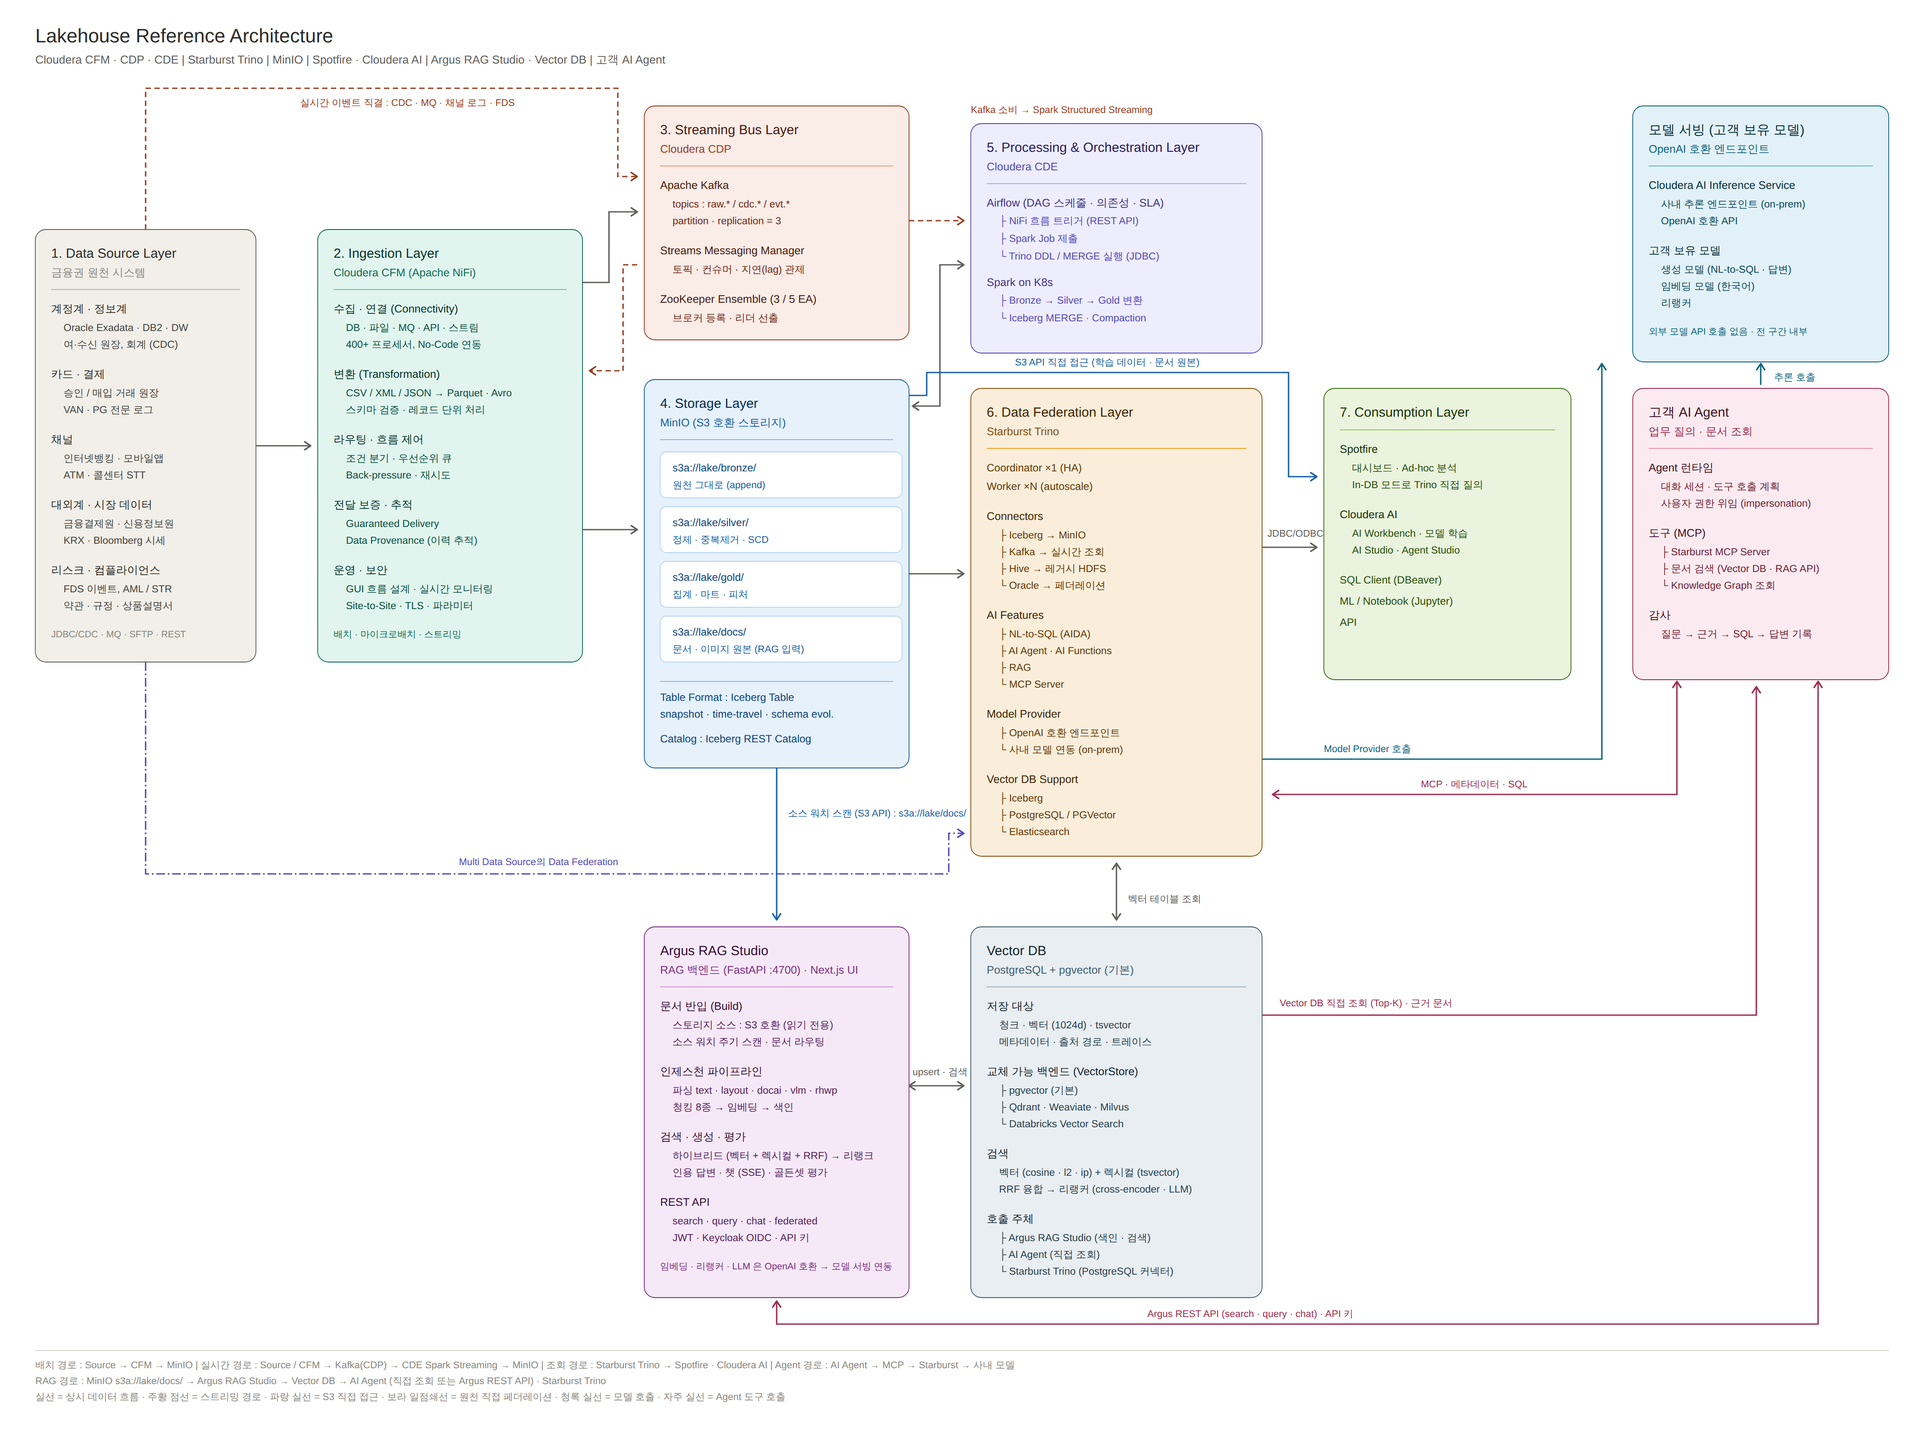
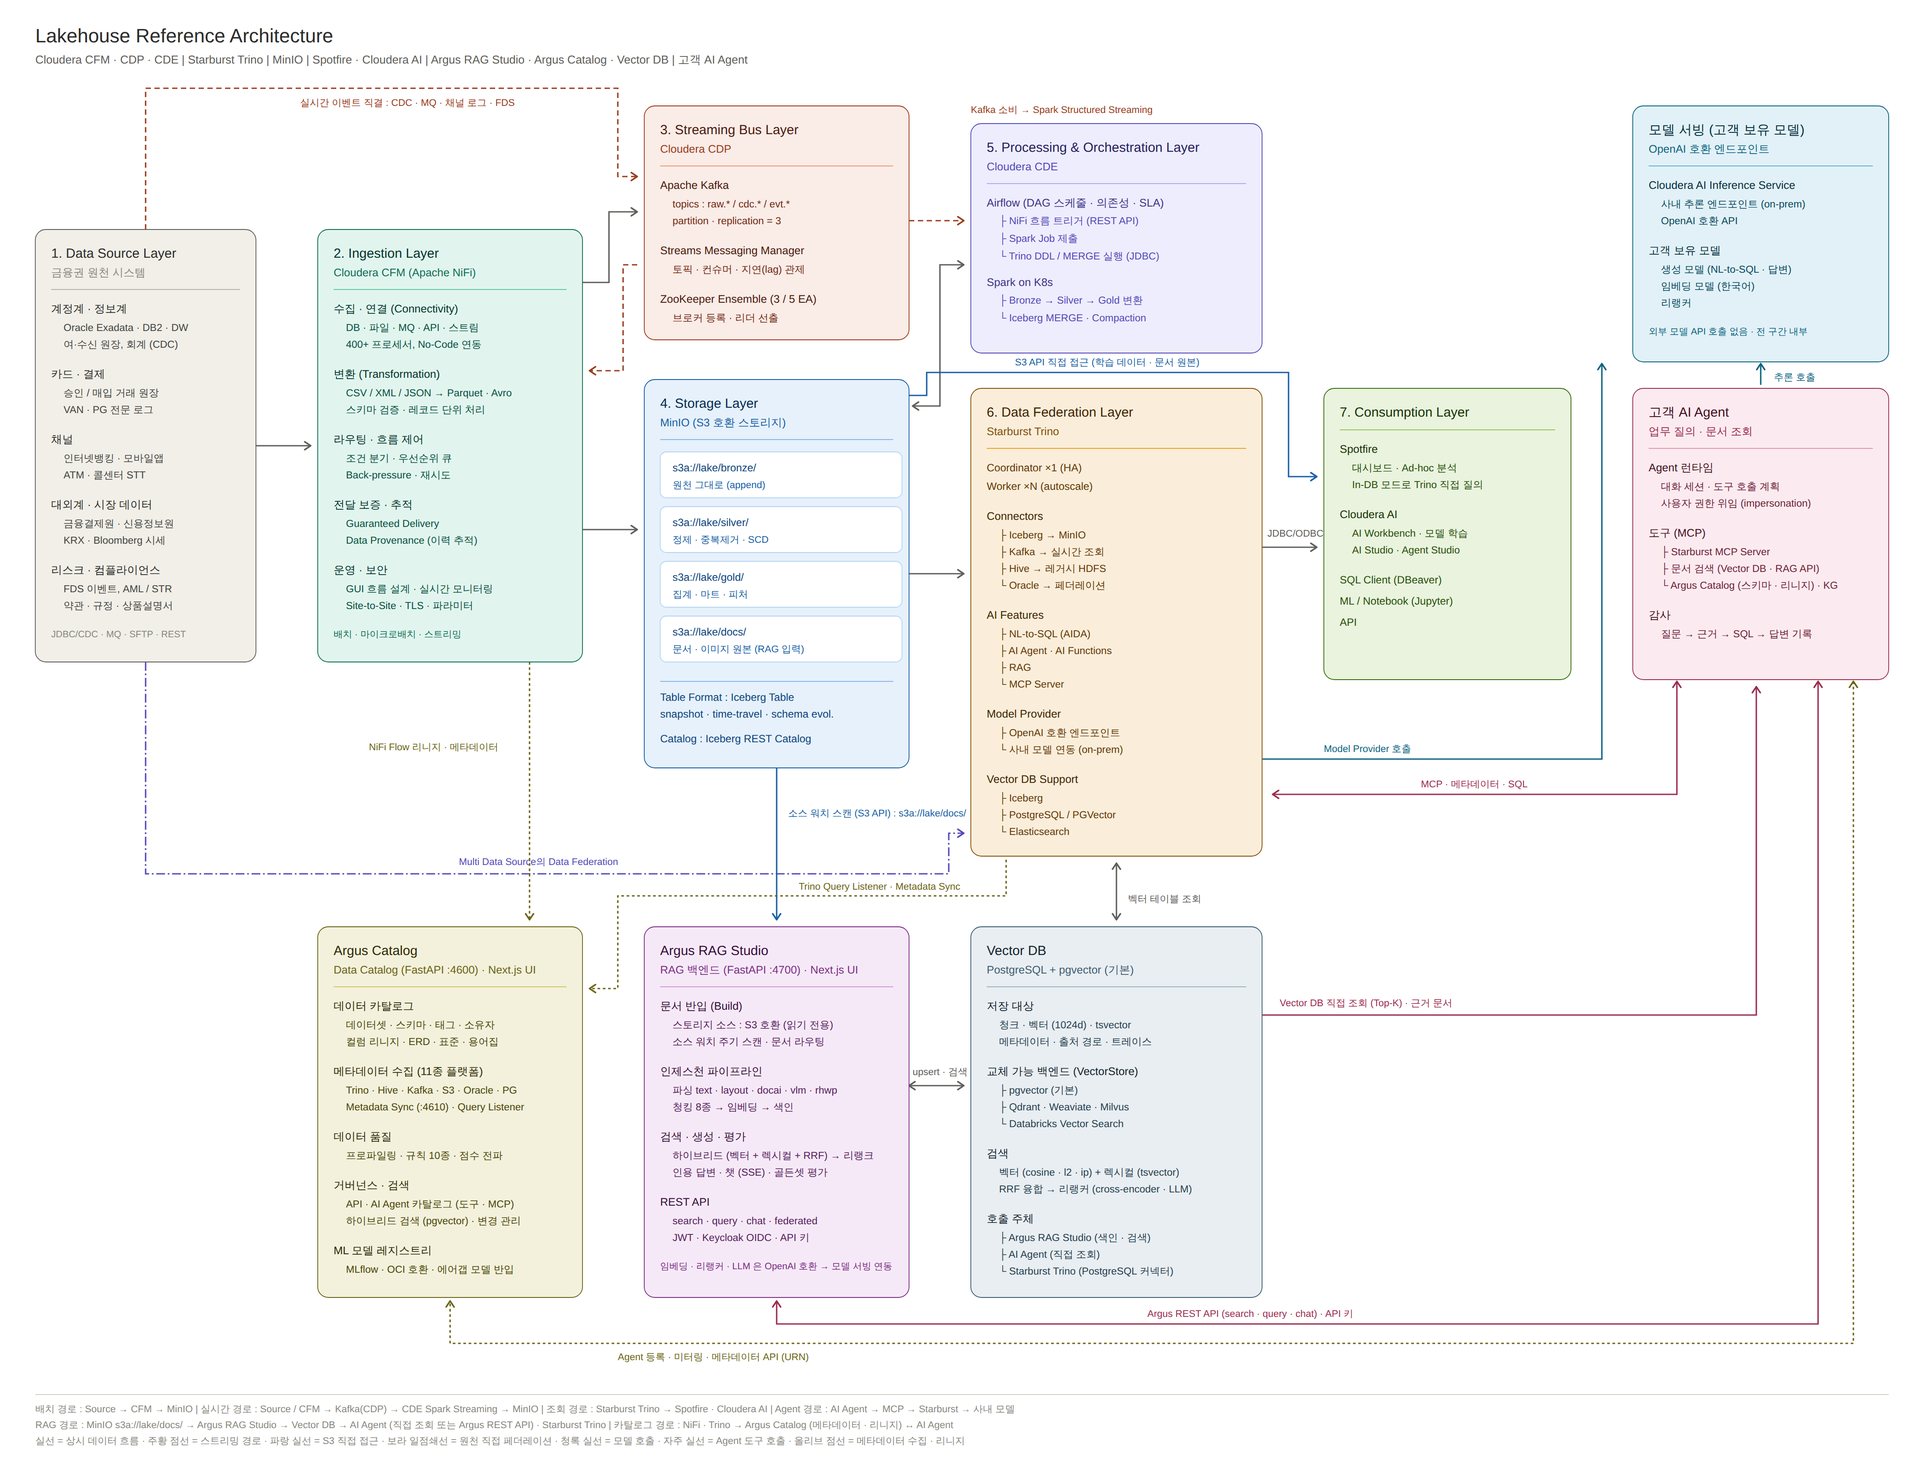
Argus Catalog 를 Data Catalog 로 다이어그램에 추가
DataDynamics-OSS/argus-catalog 저장소를 확인해 상자를 채웠다. 데이터 흐름에
끼어들지 않는 메타데이터 구성요소이므로 하단 밴드 왼쪽(Ingestion 아래)에 두고
다른 상자와는 점선으로만 잇는다.

- Argus Catalog 상자 : 데이터 카탈로그(데이터셋 · 스키마 · 컬럼 리니지 · ERD ·
  표준 · 용어집), 11종 플랫폼 메타데이터 수집(Metadata Sync :4610 · Trino
  Query Listener), 데이터 품질, API · AI Agent 카탈로그, MLflow · OCI 모델
  레지스트리와 에어갭 반입
- 경로 3개 (올리브 점선 = 메타데이터 수집 · 리니지)
  2 → Catalog : NiFi Flow 리니지
  6 → Catalog : Trino Query Listener · Metadata Sync
  Agent ↔ Catalog : Agent 등록 · 미터링 · URN 메타데이터 API
- Agent 도구 목록에 Argus Catalog (스키마 · 리니지) 추가

S3 · Kafka · Airflow 직접 동기화는 Trino 경유 수집과 겹쳐 선을 생략하고
문서에 대응표로만 적었다. 캔버스 1620 → 1670, PNG 4360x3340.

Claude-Session: https://claude.ai/code/session_01HesvhqauQbAnGpB8iFjcEm

diff --git a/scripts/generate_architecture_svg.py b/scripts/generate_architecture_svg.py
@@ -33,7 +33,7 @@ from xml.sax.saxutils import escape
 # --------------------------------------------------------------------------
 
 CANVAS_W = 2180
-CANVAS_H = 1620
+CANVAS_H = 1670
 BACKGROUND = "#FFFFFF"
 
 FONT_STACK = (
@@ -44,8 +44,8 @@ FONT_STACK = (
 TITLE = "Lakehouse Reference Architecture"
 SUBTITLE = (
     "Cloudera CFM \u00b7 CDP \u00b7 CDE  |  Starburst Trino  |  MinIO  |  "
-    "Spotfire \u00b7 Cloudera AI  |  Argus RAG Studio \u00b7 Vector DB  |  "
-    "\uace0\uac1d AI Agent"
+    "Spotfire \u00b7 Cloudera AI  |  Argus RAG Studio \u00b7 Argus Catalog "
+    "\u00b7 Vector DB  |  \uace0\uac1d AI Agent"
 )
 
 # --------------------------------------------------------------------------
@@ -75,6 +75,7 @@ PALETTE = {
     "rose": Ramp("#FBEBF0", "#9B2D4F", "#450F21", "#6E1F38", "#9B2D4F", "#E294AC"),
     "plum": Ramp("#F6E9F7", "#7B2E86", "#350E3A", "#551F5D", "#7B2E86", "#CE97D6"),
     "steel": Ramp("#E9EEF2", "#3E5D72", "#12242E", "#26414F", "#3E5D72", "#9BB3C2"),
+    "olive": Ramp("#F3F1DC", "#6B6414", "#2C2A05", "#4A4509", "#6B6414", "#CFC760"),
 }
 
 INK = "#5F5E5A"          # neutral flow lines
@@ -83,6 +84,7 @@ DIRECT = "#185FA5"       # S3 direct access
 FEDERATE = "#534AB7"     # source-level federation
 MODEL = "#0C6480"        # inference model call
 AGENT = "#9B2D4F"        # agent tool call
+CATALOG = "#6B6414"      # metadata sync / lineage (dashed)
 HAIRLINE = "#D3D1C7"
 
 # Vertical rhythm inside a box
@@ -343,10 +345,35 @@ BOXES: list[Box] = [
             Group("도구 (MCP)", [
                 "├ Starburst MCP Server",
                 "├ 문서 검색 (Vector DB · RAG API)",
-                "└ Knowledge Graph 조회",
+                "└ Argus Catalog (스키마 · 리니지) · KG",
             ]),
             Group("감사", [
                 "질문 → 근거 → SQL → 답변 기록",
+            ]),
+        ],
+    ),
+    Box(
+        key="catalog", x=360, y=1050, w=300, h=420, ramp="olive",
+        title="Argus Catalog",
+        subtitle="Data Catalog (FastAPI :4600) · Next.js UI",
+        blocks=[
+            Group("데이터 카탈로그", [
+                "데이터셋 · 스키마 · 태그 · 소유자",
+                "컬럼 리니지 · ERD · 표준 · 용어집",
+            ]),
+            Group("메타데이터 수집 (11종 플랫폼)", [
+                "Trino · Hive · Kafka · S3 · Oracle · PG",
+                "Metadata Sync (:4610) · Query Listener",
+            ]),
+            Group("데이터 품질", [
+                "프로파일링 · 규칙 10종 · 점수 전파",
+            ]),
+            Group("거버넌스 · 검색", [
+                "API · AI Agent 카탈로그 (도구 · MCP)",
+                "하이브리드 검색 (pgvector) · 변경 관리",
+            ]),
+            Group("ML 모델 레지스트리", [
+                "MLflow · OCI 호환 · 에어갭 모델 반입",
             ]),
         ],
     ),
@@ -472,6 +499,17 @@ EDGES: list[Edge] = [
     Edge("M1265 1042 V978", both=True,
          label="\ubca1\ud130 \ud14c\uc774\ube14 \uc870\ud68c",
          label_xy=(1278, 1022)),
+    # Data catalog: NiFi / Trino -> Argus Catalog -> AI Agent
+    Edge("M600 750 V1042", CATALOG, "3 3",
+         label="NiFi Flow \ub9ac\ub2c8\uc9c0 \u00b7 \uba54\ud0c0\ub370\uc774\ud130",
+         label_xy=(418, 850)),
+    Edge("M1140 974 V1015 H700 V1120 H668", CATALOG, "3 3",
+         label="Trino Query Listener \u00b7 Metadata Sync",
+         label_xy=(905, 1008)),
+    Edge("M2100 772 V1522 H510 V1474", CATALOG, "3 3", both=True,
+         label="Agent \ub4f1\ub85d \u00b7 \ubbf8\ud130\ub9c1 \u00b7 "
+               "\uba54\ud0c0\ub370\uc774\ud130 API (URN)",
+         label_xy=(700, 1541)),
 ]
 
 LEGEND = [
@@ -483,14 +521,19 @@ LEGEND = [
     "\uc0ac\ub0b4 \ubaa8\ub378",
     "RAG \uacbd\ub85c : MinIO s3a://lake/docs/ \u2192 Argus RAG Studio "
     "\u2192 Vector DB \u2192 AI Agent (\uc9c1\uc811 \uc870\ud68c \ub610\ub294 "
-    "Argus REST API) \u00b7 Starburst Trino",
+    "Argus REST API) \u00b7 Starburst Trino   |   "
+    "\uce74\ud0c8\ub85c\uadf8 \uacbd\ub85c : NiFi \u00b7 Trino \u2192 "
+    "Argus Catalog (\uba54\ud0c0\ub370\uc774\ud130 \u00b7 \ub9ac\ub2c8\uc9c0) "
+    "\u2194 AI Agent",
     "\uc2e4\uc120 = \uc0c1\uc2dc \ub370\uc774\ud130 \ud750\ub984   \u00b7   "
     "\uc8fc\ud669 \uc810\uc120 = \uc2a4\ud2b8\ub9ac\ubc0d \uacbd\ub85c   \u00b7   "
     "\ud30c\ub791 \uc2e4\uc120 = S3 \uc9c1\uc811 \uc811\uadfc   \u00b7   "
     "\ubcf4\ub77c \uc77c\uc810\uc1c4\uc120 = \uc6d0\ucc9c \uc9c1\uc811 "
     "\ud398\ub354\ub808\uc774\uc158   \u00b7   "
     "\uccad\ub85d \uc2e4\uc120 = \ubaa8\ub378 \ud638\ucd9c   \u00b7   "
-    "\uc790\uc8fc \uc2e4\uc120 = Agent \ub3c4\uad6c \ud638\ucd9c",
+    "\uc790\uc8fc \uc2e4\uc120 = Agent \ub3c4\uad6c \ud638\ucd9c   \u00b7   "
+    "\uc62c\ub9ac\ube0c \uc810\uc120 = \uba54\ud0c0\ub370\uc774\ud130 "
+    "\uc218\uc9d1 \u00b7 \ub9ac\ub2c8\uc9c0",
 ]
 
 # --------------------------------------------------------------------------
@@ -600,7 +643,10 @@ def build() -> str:
         'agent reaches the vectors either by querying the vector '
         'database directly or through the Argus REST API (search, '
         'query, chat); Starburst Trino exposes the same vectors as '
-        'tables.</desc>',
+        'tables. Argus Catalog, the data catalog, collects metadata '
+        'and lineage from NiFi flows and Trino queries and serves '
+        'schemas, lineage and an AI agent registry to the customer '
+        'agent.</desc>',
         '<defs><marker id="arrow" viewBox="0 0 10 10" refX="8" refY="5" '
         'markerWidth="7" markerHeight="7" orient="auto-start-reverse">'
         '<path d="M2 1L8 5L2 9" fill="none" stroke="context-stroke" '
@@ -617,10 +663,10 @@ def build() -> str:
     for box in BOXES:
         parts += render_box(box)
 
-    parts.append(f'<line x1="40" y1="1530" x2="{CANVAS_W - 40}" y2="1530" '
+    parts.append(f'<line x1="40" y1="1580" x2="{CANVAS_W - 40}" y2="1580" '
                  f'stroke="{HAIRLINE}" stroke-width="0.9"/>')
     for i, line in enumerate(LEGEND):
-        parts.append(text(40, 1550 + i * 18, line, 11, "#888780"))
+        parts.append(text(40, 1600 + i * 18, line, 11, "#888780"))
     parts.append("</svg>")
     return "\n".join(parts) + "\n"
 

diff --git a/docs/architecture.md b/docs/architecture.md
@@ -1,8 +1,8 @@
 # Modern Lakehouse Architecture (Air-gapped)
 
 폐쇄망 환경의 금융권 Lakehouse 참조 아키텍처입니다. 좌에서 우로 데이터가 흐르며,
-7개 Layer와 이를 뒷받침하는 Argus RAG Studio · Vector DB · 모델 서빙 · 고객 AI Agent
-구성요소, 그리고 이들을 잇는 19개의 경로로 구성됩니다.
+7개 Layer와 이를 뒷받침하는 Argus Catalog · Argus RAG Studio · Vector DB · 모델 서빙 ·
+고객 AI Agent 구성요소, 그리고 이들을 잇는 22개의 경로로 구성됩니다.
 
 ![Lakehouse Reference Architecture](../assets/lakehouse-architecture-lr.svg)
 
@@ -17,6 +17,7 @@
   - [5. Processing & Orchestration Layer — Cloudera CDE](#5-processing--orchestration-layer--cloudera-cde)
   - [6. Data Federation Layer — Starburst Trino](#6-data-federation-layer--starburst-trino)
   - [7. Consumption Layer](#7-consumption-layer)
+  - [Data Catalog — Argus Catalog](#data-catalog--argus-catalog)
   - [RAG — Argus RAG Studio](#rag--argus-rag-studio)
   - [Vector DB — 임베딩 인덱스 저장소](#vector-db--임베딩-인덱스-저장소)
   - [모델 서빙 — 고객 보유 모델](#모델-서빙--고객-보유-모델)
@@ -44,6 +45,7 @@
 | Processing & Orchestration | Cloudera CDE — Airflow, Spark on Kubernetes |
 | Data Federation | Starburst Trino |
 | Consumption | Spotfire, Cloudera AI |
+| Data Catalog | Argus Catalog (메타데이터 · 리니지 · 품질 · 모델 레지스트리) |
 | RAG | Argus RAG Studio (파이프라인 + 검색 API) |
 | Vector DB | PostgreSQL + pgvector (기본) — Qdrant · Weaviate · Milvus 교체 가능 |
 | 모델 서빙 | Cloudera AI Inference Service (OpenAI 호환 엔드포인트) + 고객 보유 모델 |
@@ -175,6 +177,54 @@ Argus RAG Studio의 기본값인 PostgreSQL + pgvector이며, Trino는 PostgreSQ
 성격이 다른 두 소비 패턴이 공존합니다. 집계 결과 조회는 Trino를, 대용량 학습 데이터는
 스토리지 직접 접근을 사용합니다.
 
+### Data Catalog — Argus Catalog
+
+여러 Layer에 흩어진 자산의 메타데이터를 한곳에 모으는 구성요소입니다. 데이터 흐름에는
+끼어들지 않고 각 시스템에서 메타데이터와 리니지만 수집하므로, 다이어그램에서 다른
+상자와 점선으로만 연결됩니다.
+
+[Argus Catalog](https://github.com/DataDynamics-OSS/argus-catalog)는 DataHub 스타일
+데이터 카탈로그와 Unity Catalog OSS 호환 ML 모델 레지스트리를 하나로 묶은 Data
+Dynamics의 오픈소스(Apache-2.0) 메타데이터 플랫폼입니다. FastAPI 백엔드(:4600)와
+Next.js UI, PostgreSQL + pgvector로 구성되며, 폐쇄망을 전제로 설계되었습니다.
+
+- **데이터 카탈로그** — 데이터셋·스키마·태그·소유자(Technical / Business / Data Steward),
+  컬럼 수준 리니지와 DDL 기반 ERD, 데이터 표준·용어집(형태소 분석 기반 자동 생성, 준수율)
+- **메타데이터 수집** — Trino · Hive · Impala · Kafka · S3 · HDFS · Oracle · PostgreSQL ·
+  Elasticsearch 등 11종 플랫폼. **Metadata Sync** 서비스(:4610, 상시 또는 배치)가 스키마 ·
+  키 · DDL · 행 수를 동기화하고 변경분을 스냅샷으로 남김
+- **리니지 수집** — **Trino Query Listener**(EventListener SPI)가 실행된 질의의 입출력
+  테이블·컬럼을 그대로 보고. Hive Query Hook · Impala Query Agent, 그리고 NiFi Flow ·
+  Airflow DAG 파이프라인 자동 등록
+- **데이터 품질** — 소스 직접 프로파일링, 규칙 10종 검증, GOOD / WARN / BAD 점수와
+  리니지 업스트림 전파 경고
+- **거버넌스** — OpenAPI 스펙 **API 카탈로그**, **AI Agent 카탈로그**(에이전트 등록 · 도구/MCP
+  서버 · 리니지 · 평가 · 호출 미터링 · 정책 번들), Temporal 기반 변경 관리
+- **ML 모델 레지스트리** — MLflow · OCI 호환, Stage 관리, 모델 카드, `argus-model` CLI로
+  외부 모델을 에어갭으로 반입
+- **검색 · AI** — pgvector 하이브리드 검색, LLM 기반 메타데이터 자동 생성(설명 · 태그 ·
+  PII 감지), tool-use AI 어시스턴트
+
+이 아키텍처에서 자리를 잡는 방식은 다음과 같습니다.
+
+| Argus Catalog 기능 | 이 아키텍처에서의 대응 |
+|---|---|
+| Trino 플랫폼 동기화 + Query Listener | 6번 Layer. Trino가 페더레이션하는 원천(Oracle · Hive · Kafka · Iceberg)의 메타데이터를 한 번에 수집하고, 실행 질의에서 리니지를 얻음 |
+| NiFi Flow 등록 | 2번 Layer의 CFM. 수집 흐름을 파이프라인 자산으로 등록 |
+| Airflow DAG 등록 | 5번 Layer의 CDE. Bronze → Silver → Gold 변환의 리니지 |
+| S3 · Kafka 플랫폼 동기화 | 4번 · 3번 Layer. 필요 시 Trino를 거치지 않고 직접 동기화 |
+| AI Agent 카탈로그 | 고객 AI Agent를 등록하고 도구/MCP · 호출 지표를 거버넌스 |
+| External API (URN 기반 메타데이터 · Avro 스키마) | Agent가 질의 계획 전에 스키마 · 리니지 · 용어집을 조회 |
+| ML 모델 레지스트리 + 에어갭 반입 | 모델 서빙 상자의 고객 보유 모델을 반입 · 버전 관리 |
+| LLM 프로바이더 (OpenAI 호환) | 모델 서빙 상자의 Cloudera AI Inference |
+
+다이어그램에서는 NiFi → Catalog, Trino → Catalog, Catalog ↔ Agent 세 경로만 그렸습니다.
+S3 · Kafka · Airflow 동기화는 Trino 경유 수집과 겹치므로 선을 생략했습니다.
+
+> **설계 주의** Query Listener는 Trino Coordinator 플러그인이므로 Starburst 업그레이드
+> 시 SPI 호환성을 함께 검증해야 합니다. 리니지가 끊기면 품질 전파 경고와 영향 분석이
+> 침묵하므로, 수집 지연을 알림 규칙으로 감시하십시오.
+
 ### RAG — Argus RAG Studio
 
 Storage Layer의 `docs/` 존에 쌓인 비정형 문서를 Agent가 근거로 쓸 수 있는 형태로
@@ -291,6 +341,9 @@ Agent가 자체 계정으로 조회하면 권한 통제가 무력화되므로, *
 | Vector DB → Agent | 자주 실선 | Vector DB 직접 조회 | Agent의 문서 검색 도구가 Top-K 근거 청크를 직접 조회 |
 | Agent ↔ RAG | 자주 실선 (양방향) | Argus REST API 호출 | `search` · `query` · `chat` 호출(API 키). 하이브리드 검색·리랭킹·인용·트레이스를 Studio가 처리 |
 | Vector DB ↔ 6 | 양방향 실선 | 벡터 테이블 조회 | Trino의 PostgreSQL 커넥터로 pgvector 테이블과 정형 데이터를 한 질의에서 결합 |
+| 2 → Catalog | 올리브 점선 | NiFi Flow 리니지 | CFM 수집 흐름을 파이프라인 자산으로 등록. 원천 → Bronze 구간의 리니지 |
+| 6 → Catalog | 올리브 점선 | Trino Query Listener · Metadata Sync | 페더레이션된 모든 원천의 메타데이터를 한 번에 동기화하고, 실행 질의에서 컬럼 수준 리니지를 수집 |
+| Agent ↔ Catalog | 올리브 점선 (양방향) | Agent 등록 · 미터링 · 메타데이터 API | Agent는 URN 기반 External API로 스키마·리니지·용어집을 조회하고, 자신을 AI Agent 카탈로그에 등록해 호출 지표를 보고 |
 
 ### 조회 경로 선택 기준
 
@@ -340,7 +393,7 @@ URL은 폐쇄망 DNS에서 해석되지 않는 경우가 많습니다.
 python scripts/generate_architecture_svg.py
 ```
 
-SVG와 PNG(4360 x 3240)가 함께 생성됩니다. PNG 래스터화에는 시스템에 설치된 렌더러
+SVG와 PNG(4360 x 3340)가 함께 생성됩니다. PNG 래스터화에는 시스템에 설치된 렌더러
 (rsvg-convert · Inkscape · Chromium · CairoSVG · ImageMagick 중 하나)를 사용하며,
 자세한 옵션은 [README](../README.md#png-렌더러)를 참고하십시오.
 
@@ -441,6 +494,10 @@ SVG와 PNG(4360 x 3240)가 함께 생성됩니다. PNG 래스터화에는 시스
 | 소스 워치 | Argus RAG Studio가 등록된 스토리지 소스의 폴더를 주기 스캔해 새 문서를 자동 반입하는 기능 |
 | 하이브리드 검색 | 벡터 유사도 검색과 렉시컬(키워드) 검색을 함께 수행하고 결과를 융합하는 방식 |
 | RRF | Reciprocal Rank Fusion. 서로 다른 검색 결과의 순위를 합쳐 하나의 순위로 만드는 융합 기법 |
+| Argus Catalog | DataHub 스타일 데이터 카탈로그와 Unity Catalog 호환 ML 모델 레지스트리를 하나로 묶은 Data Dynamics의 오픈소스 메타데이터 플랫폼 |
+| Query Listener | Trino의 EventListener SPI로 실행 질의의 입출력 테이블·컬럼을 받아 리니지를 만드는 Argus Catalog 확장 |
+| Metadata Sync | 여러 플랫폼의 스키마·키·DDL을 주기적으로 수집해 Argus Catalog에 동기화하는 서비스(:4610) |
+| URN | Uniform Resource Name. Argus Catalog가 데이터셋·API·모델 같은 자산을 식별하는 고유 이름 |
 | 청킹 (chunking) | 긴 문서를 검색 단위로 잘라내는 것. 조각마다 출처와 메타데이터를 붙입니다 |
 | 임베딩 (embedding) | 텍스트를 의미를 담은 숫자 벡터로 변환하는 것. 유사도 검색의 기준값이 됩니다 |
 | Vector DB | 임베딩 벡터와 메타데이터를 저장하고 유사도 검색을 제공하는 저장소 |
